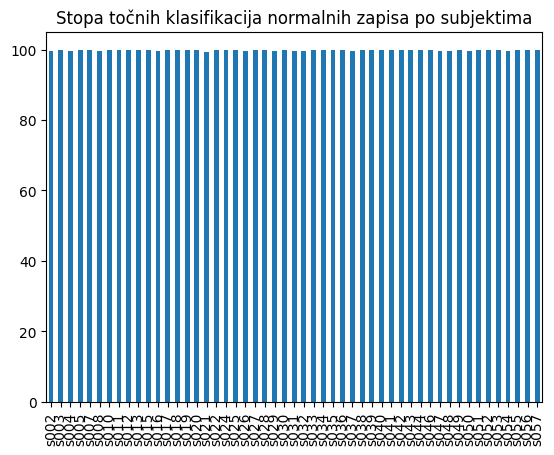
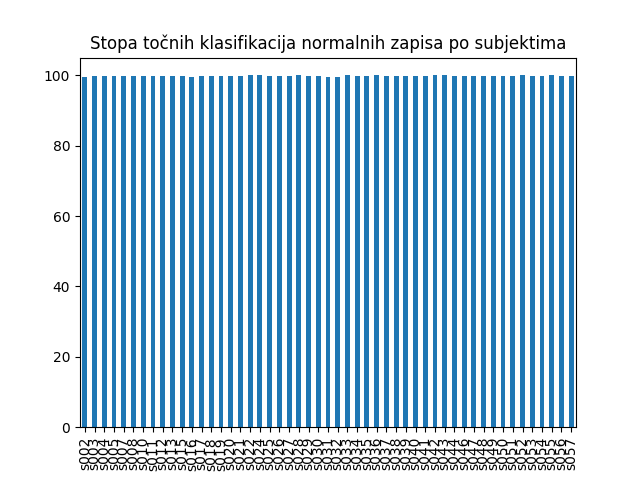
Add confusion matrix plotting

diff --git a/functions.py b/functions.py
@@ -4,7 +4,7 @@ from pandas import DataFrame
 from sklearn.model_selection import train_test_split
 from sklearn.preprocessing import MinMaxScaler
 from sklearn.ensemble import RandomForestClassifier
-from sklearn.metrics import confusion_matrix, precision_score, accuracy_score
+from sklearn.metrics import confusion_matrix, precision_score, accuracy_score, ConfusionMatrixDisplay
 import matplotlib.pyplot as plt
 import time
 
@@ -70,16 +70,16 @@ def useModel(trainDF_Y, trainDF_X, y_test, testDF_X, model: RandomForestClassifi
     
     # Izrada konfuzijske matrice klasifikacija modela. Sluzi nam za kasnije
     # izracunavanje konkretnih pokazatelja performansi modela strojnog ucenja
-    confusionMatrix = confusion_matrix(y_test, prediction)
-    return confusionMatrix, prediction, trainingTime, testingTime
+    confusionMatrices = confusion_matrix(y_test, prediction, labels = model.classes_)
+    return confusionMatrices, prediction, trainingTime, testingTime
 
-def calculateStatisticalData(confusionMatrix: confusion_matrix, y_test, prediction):
+def calculateStatisticalData(confusionMatrices, y_test, prediction):
     
     # Izracun pokazatelja performansi modela strojnog ucenja
-    truePositive = np.diag(confusionMatrix)
-    falsePositive = confusionMatrix.sum(axis=0) - np.diag(confusionMatrix)
-    falseNegative = confusionMatrix.sum(axis=1) - np.diag(confusionMatrix)
-    trueNegative = confusionMatrix.sum() - (falsePositive + falseNegative + truePositive)
+    truePositive = np.diag(confusionMatrices)
+    falsePositive = confusionMatrices.sum(axis=0) - np.diag(confusionMatrices)
+    falseNegative = confusionMatrices.sum(axis=1) - np.diag(confusionMatrices)
+    trueNegative = confusionMatrices.sum() - (falsePositive + falseNegative + truePositive)
     precision = precision_score(y_test, prediction, average = 'weighted') * 100
     recall = truePositive / (truePositive + falseNegative) * 100
     falsePositiveRate = falsePositive / (falsePositive + trueNegative) * 100
@@ -100,7 +100,7 @@ def calculateStatisticalData(confusionMatrix: confusion_matrix, y_test, predicti
     statisticalData['fMeassure'] = fMeassure
     return statisticalData
 
-def plotStatisticalData(statisticalData: dict, index):
+def plotStatisticalData(statisticalData: dict, index, confusionMatrices, model):
     
     # Iscrtavanje slozenih pokazatelja kako bi mogli usporediti performanse 
     # modela strojnog ucenja za pojedine subjekte iz skupa podataka
@@ -110,7 +110,7 @@ def plotStatisticalData(statisticalData: dict, index):
     plt.xticks(rotation=90)
     plt.title('Opoziv po kategorijama')
     plt.legend().remove()
-    plt.savefig('recall.png',bbox_inches='tight')
+    plt.savefig('recall.png')
     
     # FPR
     falsePositiveValuesDF = pd.DataFrame(statisticalData.get("falsePositiveRate"), index = index)
@@ -118,7 +118,7 @@ def plotStatisticalData(statisticalData: dict, index):
     plt.xticks(rotation=90)
     plt.title('Stopa pogrešnih klasifikacija po subjektima')
     plt.legend().remove()
-    plt.savefig('fpr.png',bbox_inches='tight')
+    plt.savefig('fpr.png')
     
     # TNR
     trueNegativeValuesDF = pd.DataFrame(statisticalData.get("trueNegativeRate"), index = index)
@@ -126,7 +126,7 @@ def plotStatisticalData(statisticalData: dict, index):
     plt.xticks(rotation=90)
     plt.title('Stopa točnih klasifikacija normalnih zapisa po subjektima')
     plt.legend().remove()
-    plt.savefig('tnr.png',bbox_inches='tight')
+    plt.savefig('tnr.png')
 
     # F-mjera
     fMeassureValuesDF = pd.DataFrame(statisticalData.get("fMeassure"), index = index)
@@ -134,7 +134,17 @@ def plotStatisticalData(statisticalData: dict, index):
     plt.xticks(rotation=90)
     plt.title('F-mjera modela po subjektima')
     plt.legend().remove()
-    plt.savefig('fMeassure.png',bbox_inches='tight')
+    plt.savefig('fMeassure.png')
+
+    # Konfuzijska matrica
+    disp = ConfusionMatrixDisplay(confusionMatrices, display_labels = model.classes_)
+    fig, ax = plt.subplots(figsize = (20,20))
+    disp.plot(ax = ax)
+    plt.title('Konfuzijska matrica klasifikacija')
+    plt.ylabel('Stvarne oznake')
+    plt.xlabel('Predviđene oznake')
+    plt.xticks(rotation = 90)
+    plt.savefig('konfuzijskaMatrica.png')
     return
 
 def saveToExcel(statisticalData: dict, trainingTime, testingTime, index):
@@ -143,12 +153,12 @@ def saveToExcel(statisticalData: dict, trainingTime, testingTime, index):
     simpleStatisticsDataFrame = pd.DataFrame(index = ['Vrijeme treniranja', 'Vrijeme testiranja', 'Preciznost', 'Tocnost'])
     simpleStatisticsDataFrame["Jednostavni pokazatelji"] = [trainingTime, testingTime, statisticalData.get("accuracy"), statisticalData.get("precision")]
     classificationStatisticsDataFrame = pd.DataFrame(index = index)
-    classificationStatisticsDataFrame['TP'] = statisticalData.get("truePositive")
-    classificationStatisticsDataFrame['FP'] = statisticalData.get("falsePositive")
-    classificationStatisticsDataFrame['FN'] = statisticalData.get("falseNegative")
-    classificationStatisticsDataFrame['TN'] = statisticalData.get("trueNegative")
-    classificationStatisticsDataFrame['FPR'] = statisticalData.get("falsePositiveRate")
-    classificationStatisticsDataFrame['TNR'] = statisticalData.get("trueNegativeRate")
+    classificationStatisticsDataFrame['True Positive'] = statisticalData.get("truePositive")
+    classificationStatisticsDataFrame['False Positive'] = statisticalData.get("falsePositive")
+    classificationStatisticsDataFrame['False Negative'] = statisticalData.get("falseNegative")
+    classificationStatisticsDataFrame['True Negative'] = statisticalData.get("trueNegative")
+    classificationStatisticsDataFrame['False Positive Rate'] = statisticalData.get("falsePositiveRate")
+    classificationStatisticsDataFrame['True Negative Rate'] = statisticalData.get("trueNegativeRate")
     classificationStatisticsDataFrame['Opoziv'] = statisticalData.get("recall")
     classificationStatisticsDataFrame['F-mjera'] = statisticalData.get("fMeassure")
     

diff --git a/main.py b/main.py
@@ -4,7 +4,6 @@
 from pathlib import Path
 import pandas as pd
 from sklearn.ensemble import RandomForestClassifier
-import matplotlib.pyplot as plt
 from functions import prepareForModelUse, useModel, calculateStatisticalData, plotStatisticalData, saveToExcel
 
 # 2. Dohvat i priprena skupa podataka #
@@ -24,7 +23,7 @@ index = datasetDataFrame['subject'].unique()
 
 # Koristenje napravljene metode za pripremu skupa podataka 
 # za unos u model strojng ucenja
-X_train, X_test, y_train, y_test = prepareForModelUse(datasetDataFrame, index = index)
+X_train, X_test, y_train, y_test = prepareForModelUse(datasetDataFrame, index)
 
 # 4. Unos skupa podataka u model strojnog ucenja #
 
@@ -32,7 +31,7 @@ X_train, X_test, y_train, y_test = prepareForModelUse(datasetDataFrame, index = 
 modelRF = RandomForestClassifier(n_estimators = 30)
 
 # Koristenje napravljene metode za rad nad modelom strojnog ucenja
-confusionMatrix, prediction, trainingTime, testingTime = useModel(y_train, X_train, y_test, X_test, modelRF)
+confusionMatrices, prediction, trainingTime, testingTime = useModel(y_train, X_train, y_test, X_test, modelRF)
 
 # 5. Izračun statističkih pokazatelja modela strojnog učenja, 
 # iscrtavanje grafova pojedinih pokazatelja
@@ -40,11 +39,11 @@ confusionMatrix, prediction, trainingTime, testingTime = useModel(y_train, X_tra
 
 # Metoda sluzi za izracun statisticki pokazatelja, odnosno
 # sluzi za izracun performansi modela strojnog ucenja
-statisticalData = calculateStatisticalData(confusionMatrix, y_test, prediction)
+statisticalData = calculateStatisticalData(confusionMatrices, y_test, prediction)
 
 # Metoda kojom se iscrtavaju grafovi odabranih pokazatelja kako bi 
 # smo kasnije detaljno analizirali rad modela
-plotStatisticalData(statisticalData, index)
+plotStatisticalData(statisticalData, index, confusionMatrices, modelRF)
 
 # Metoda koja sluzi za perzistenciju podataka. Izracunate statisticke
 # pokazatelje spremamo u Excel datoteku
